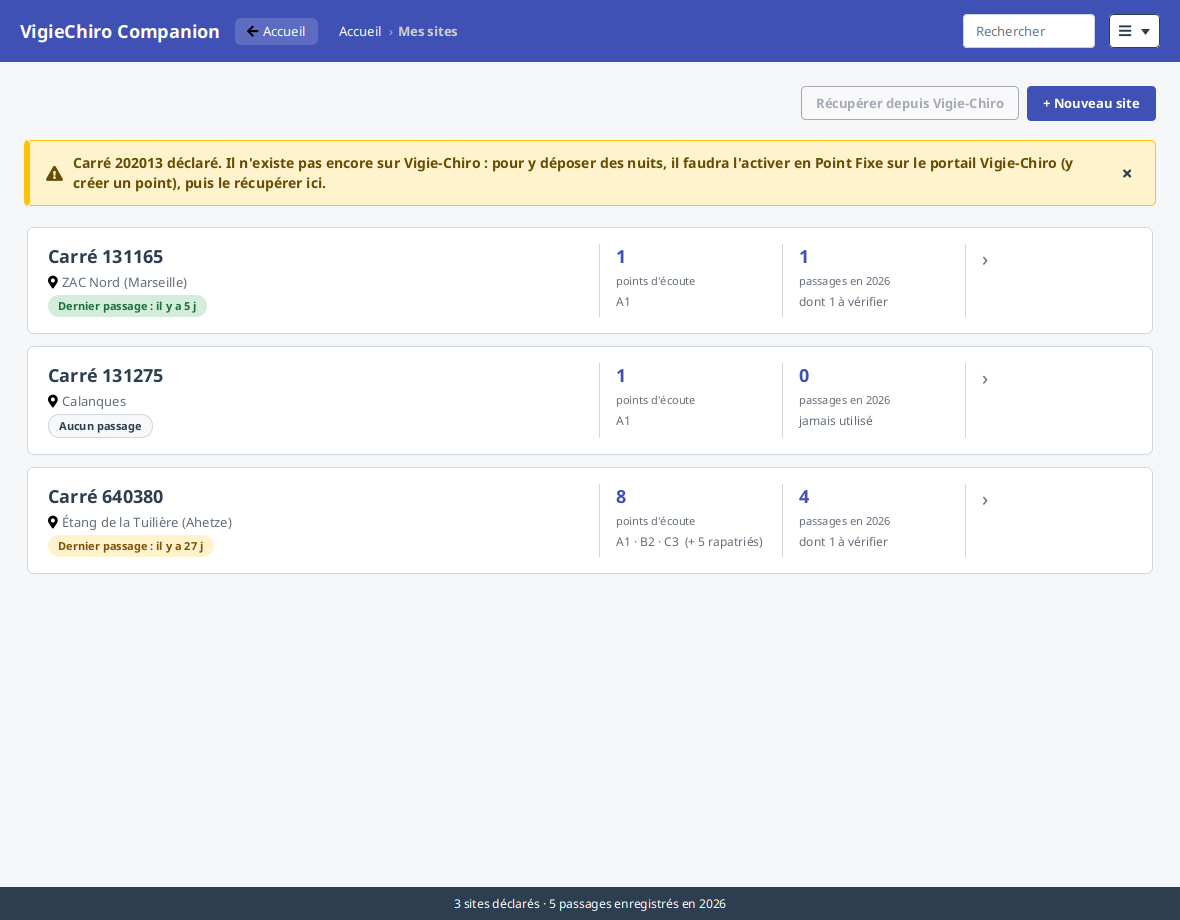
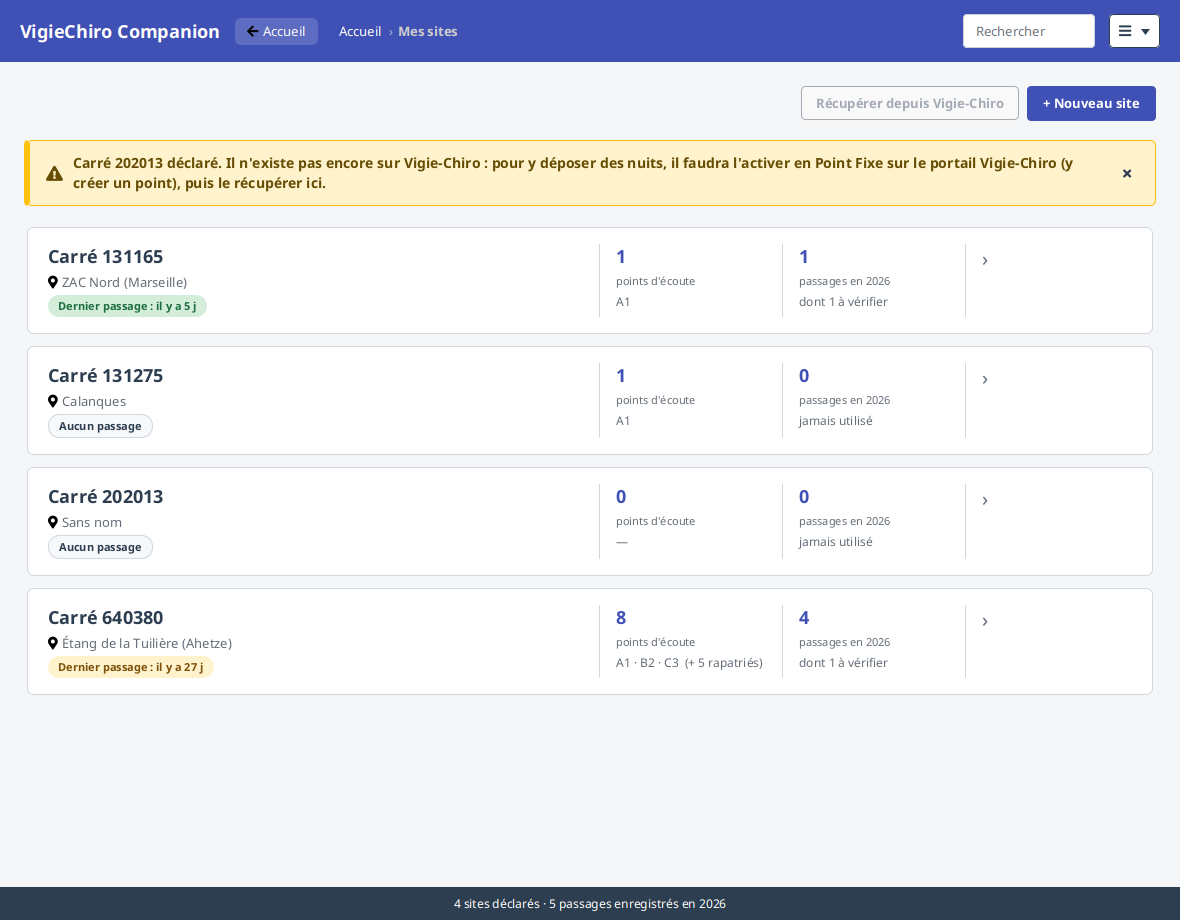
docs(captures): passe 8 de #5596, le carré déclaré paraît dans la liste que son bandeau annonce (#5596)
L'aperçu montrait « Carré 202013 déclaré » au-dessus d'une liste sans ce carré : le bandeau était posé sans que le site existe. Il est réellement déclaré le temps du rendu, puis retiré.

diff --git a/src/main/java/fr/univ_amu/iut/sites/outils/CaptureEcrans.java b/src/main/java/fr/univ_amu/iut/sites/outils/CaptureEcrans.java
@@ -380,13 +380,23 @@ public final class CaptureEcrans {
     /// « Mes sites » juste après la déclaration d'un carré absent de Vigie-Chiro (#5607) : la modale s'est
     /// fermée, et c'est le bandeau qui dit ce qu'il faudra faire avant de déposer. Le message est celui
     /// que la vérification compose, passé par le même chemin que celui de la modale.
+    ///
+    /// Le carré est **réellement déclaré** le temps de l'aperçu : le bandeau annonçait « Carré 202013
+    /// déclaré » au-dessus d'une liste qui ne le portait pas, vu en rouvrant l'image à la clôture de
+    /// #5596. Il est retiré ensuite, les aperçus suivants partageant la même base.
     private static void capturerVerdictApresCreation(Injector injecteur, Path fichier) throws IOException {
-        Parent chrome = chargerFxml(injecteur, CHROME);
-        injecteur.getInstance(NavigationSites.class).ouvrirAccueil();
-        RechercheCarreExistant.Verdict absent = new RechercheCarreExistant.Verdict.Inexistant();
-        ecranMesSites(injecteur)
-                .annoncerLeVerdict(new RetourOperation(absent.apresDeclaration(CARRE_ABSENT), absent.severite()));
-        ApercuFx.enregistrerPng(new Scene(chrome, 1180, 920), fichier);
+        ServiceSites service = injecteur.getInstance(ServiceSites.class);
+        Site declare = service.creerSite(CARRE_ABSENT, null, Protocole.STANDARD, null, ID_UTILISATEUR);
+        try {
+            Parent chrome = chargerFxml(injecteur, CHROME);
+            injecteur.getInstance(NavigationSites.class).ouvrirAccueil();
+            RechercheCarreExistant.Verdict absent = new RechercheCarreExistant.Verdict.Inexistant();
+            ecranMesSites(injecteur)
+                    .annoncerLeVerdict(new RetourOperation(absent.apresDeclaration(CARRE_ABSENT), absent.severite()));
+            ApercuFx.enregistrerPng(new Scene(chrome, 1180, 920), fichier);
+        } finally {
+            service.supprimerSite(declare.id());
+        }
     }
 
     /// Modale de déclaration **après avoir situé une position** (#4573).
